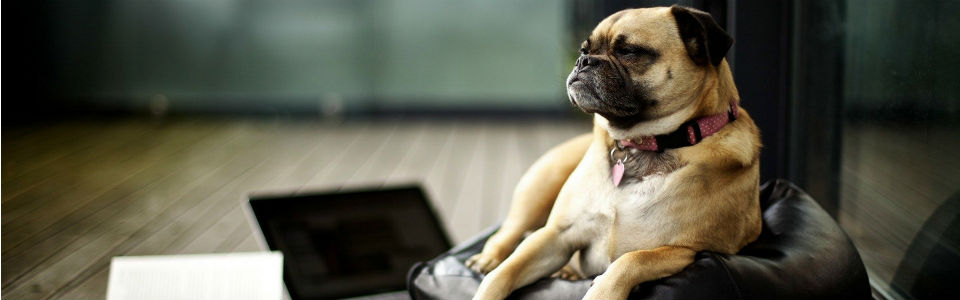
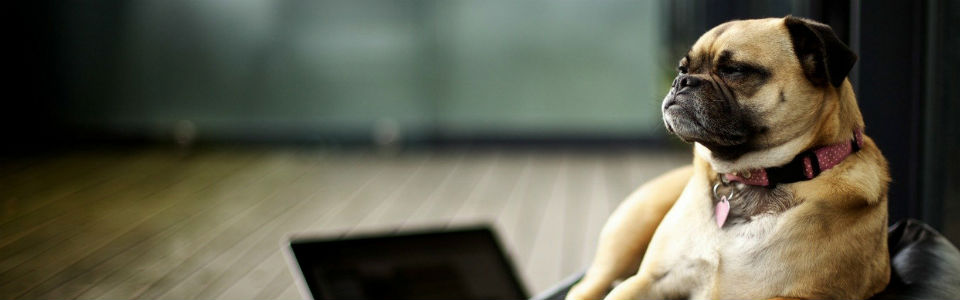
added new hero and headers in hero box

diff --git a/app/assets/stylesheets/media.css.scss b/app/assets/stylesheets/media.css.scss
@@ -1,18 +1,28 @@
 /* Large desktop */
-@media (min-width: 1200px) {  
+@media (min-width: 960px) {  
   .lrg-nav {
     display: block !important;
   }
 }
 
 /* Portrait tablet to landscape and desktop */
-@media (min-width: 750px) and (max-width: 979px) { 
+@media (min-width: 750px) and (max-width: 959px) { 
   body { 
     font-size:110%;
     margin: 0;
     .container {
       width: 100% !important;
+      .lrg-nav {
+        display: block !important;
+        img {
+          margin-right: 30px;
+        }
+        li {
+          margin-right: 30px !important;
+        }
+      }
     }
+
   }
   
   ul.spacer {
@@ -29,7 +39,18 @@
       width: 100% !important;
     }
   }
-
+  nav {
+    height: 40px !important;
+    .inner-nav {
+      padding-top: 0px !important;
+      li {
+        margin-left: 10px !important;
+      }
+    }
+    #nav-icon {
+      display: block !important;
+    }
+  }
   ul.spacer {
     display: none !important;
   }
@@ -54,18 +75,6 @@
       width: 100% !important;
     }
   }
-  nav {
-    height: 40px !important;
-    .inner-nav {
-      padding-top: 0px !important;
-      li {
-        margin-left: 10px !important;
-      }
-    }
-    #nav-icon {
-      display: block !important;
-    }
-  }
   .carousel {
     width: 300px !important;
     height: 300px !important;
@@ -85,7 +94,6 @@
       margin: 20px 0 40px 0;
     }
   }
-
   
   footer {
     .span4 {

diff --git a/app/assets/stylesheets/base.css.scss b/app/assets/stylesheets/base.css.scss
@@ -50,14 +50,6 @@ h4 {
   display: inline-block;
 }
 
-.last-right {
-  margin-right: 0px;
-}
-
-.last-left {
-  margin-left: 0px;
-}
-
 article {
   width: 100%;
 }
@@ -66,16 +58,27 @@ section:first-of-type {
   background: url('king2.jpg') no-repeat;
   width: 100%;
   height: 300px;
-  overflow: hidden;
   .copy-box-1 {
     position: absolute;
-    padding: 20px;
+    padding: 0 20px 20px 20px;
     z-index: 1;
-    top: 160px;
-    left: 28%;
+    top: 150px;
+    left: 26%;
     width: 305px;
-    height: 150px;
-    background-color: rgba(0,0,0,.5);
+    height: 170px;
+    background-color: rgba(255,255,255,.8);
+    hgroup {
+      h1 {
+        font-size: 20px;
+        margin: 10px 0 10px 0;
+        color: #5392C9;
+        font-weight: bold;
+      }
+      p {
+        margin-top: 0;
+        font-weight: 500;
+      }
+    }
   }
 }
 
@@ -120,7 +123,7 @@ section:first-of-type {
   width: 100%;
   color: #4F4F4F;
   h2 {
-    
+
     padding: 30px;
     font-weight: 300;
     margin: 0;
@@ -148,6 +151,8 @@ section:first-of-type {
   width: 80px;
   height: 32px;
   border-radius: 2px;
+  text-align: center;
+  font-weight: 500;
 }
 
 .btn-white {
